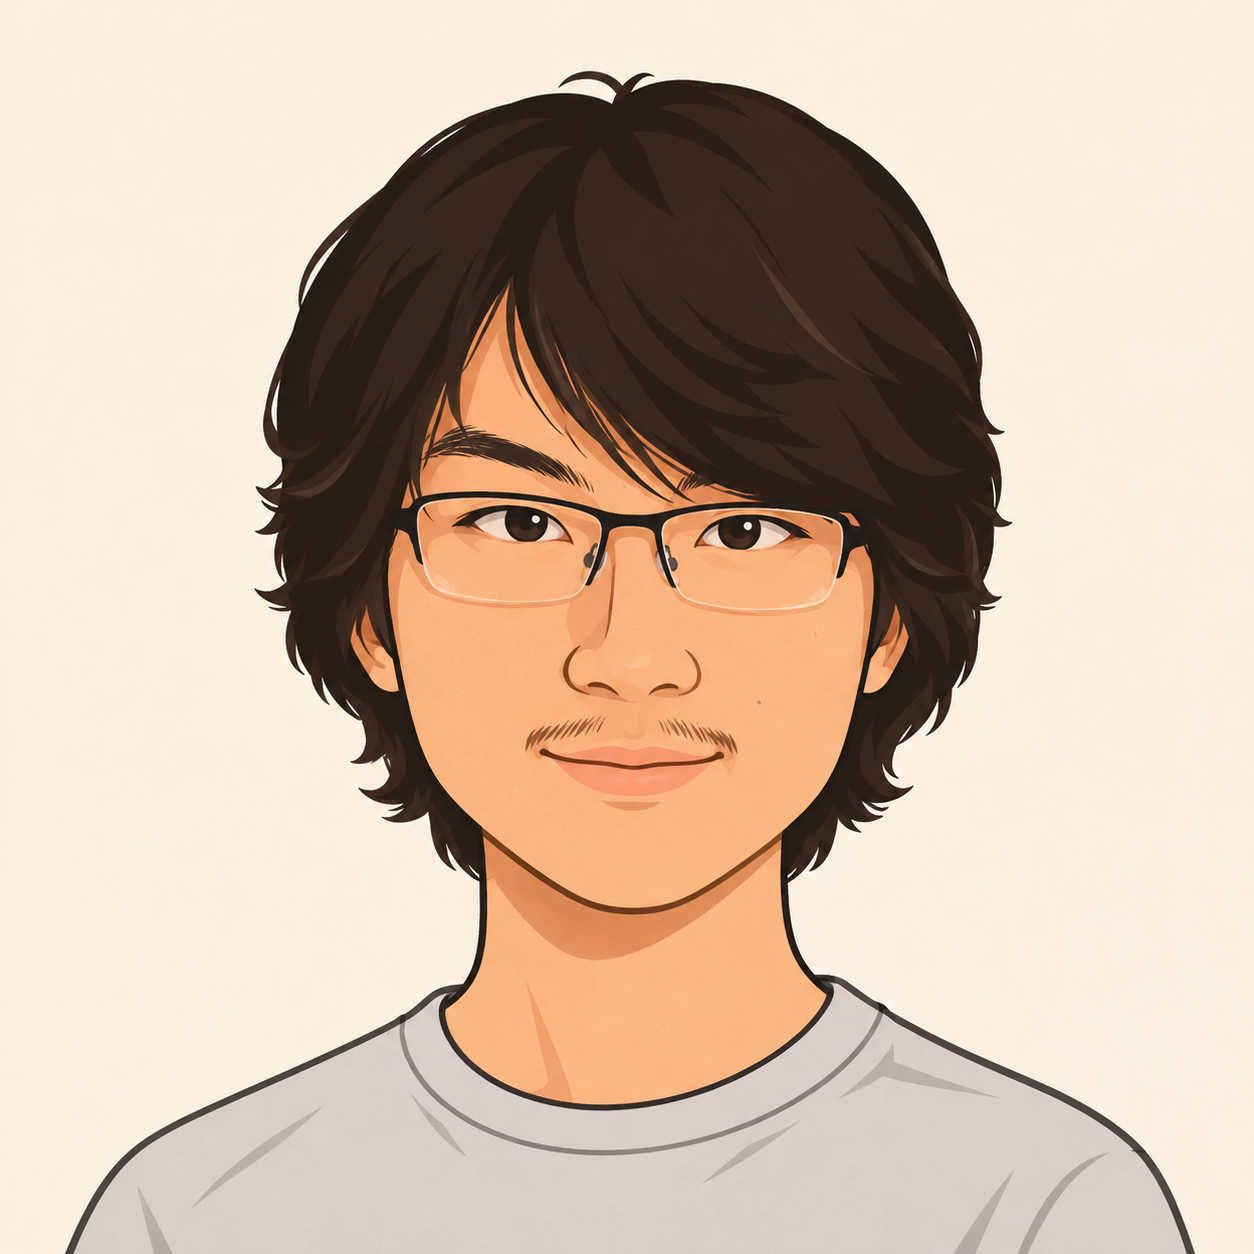
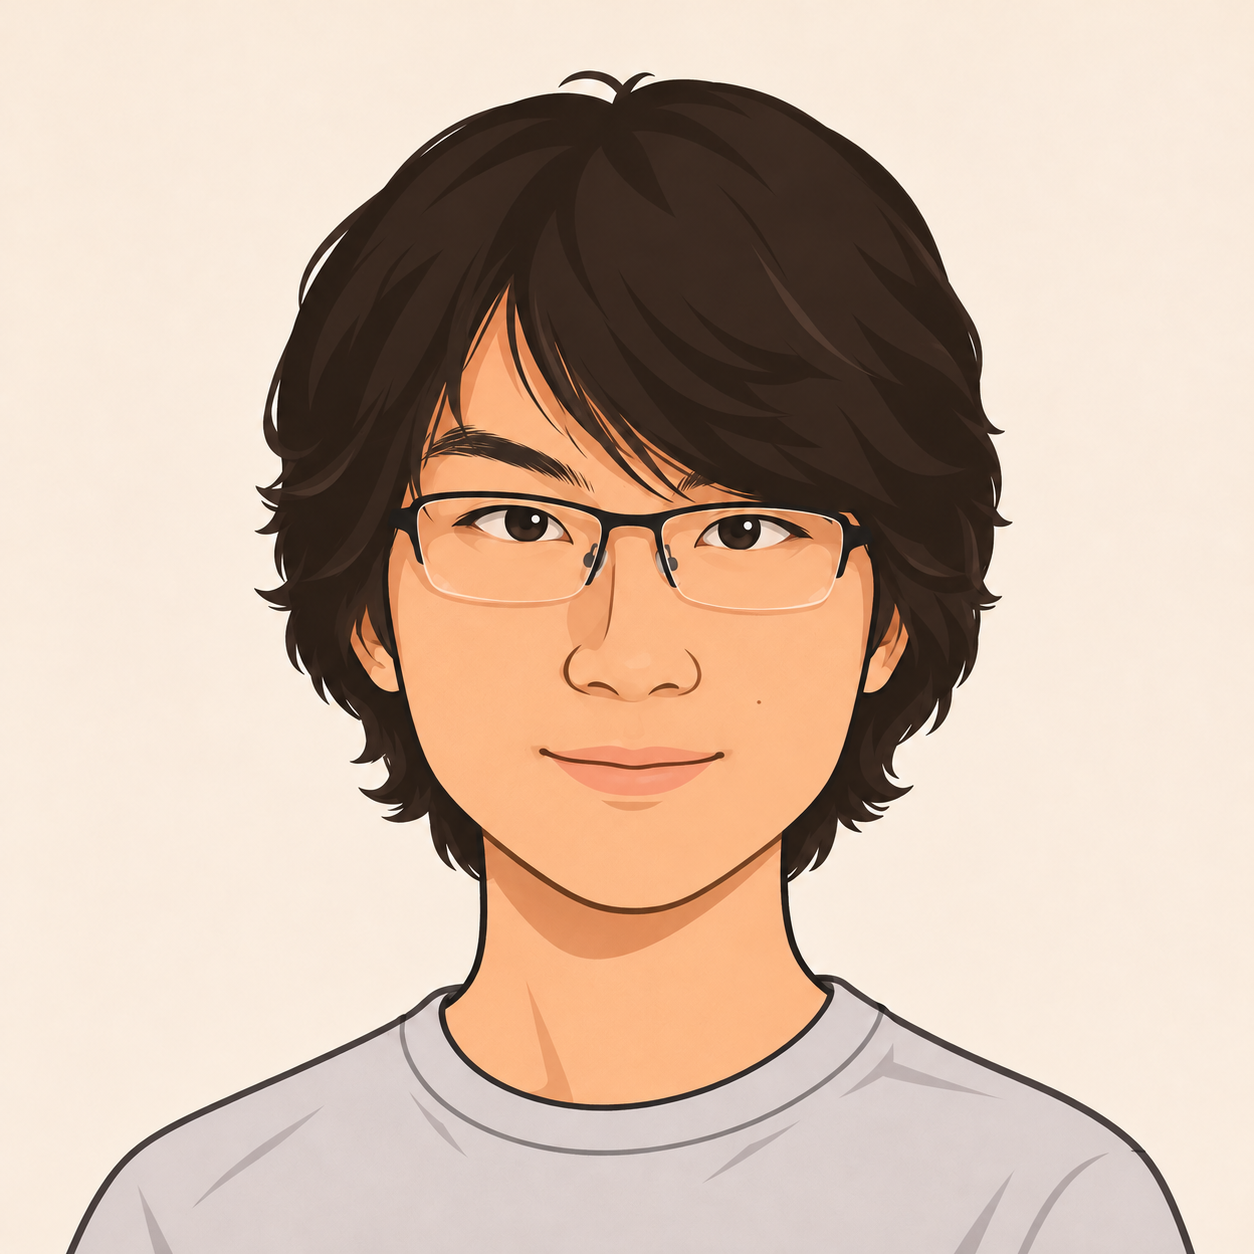
Use Libre Franklin and remove facial hair from cartoon portrait

diff --git a/index.html b/index.html
@@ -10,13 +10,13 @@
   <meta property="og:description" content="I am finishing a bachelor&#x27;s degree in Honours Math &amp; CS at McGill University and Mila – Québec AI Institute, where I do research on reinforcement learning and optimization theory.">
   <meta property="og:type" content="website">
   <meta property="og:url" content="https://al2wang.github.io/">
-  <meta property="og:image" content="https://al2wang.github.io/images/profile-placeholder.png">
+  <meta property="og:image" content="https://al2wang.github.io/images/profile-placeholder.png?v=clean-shaven">
   <meta property="og:image:alt" content="Cartoon placeholder portrait of Guangyuan Wang">
   <meta name="twitter:card" content="summary">
   <link rel="canonical" href="https://al2wang.github.io/">
   <link rel="icon" href="assets/favicon.svg" type="image/svg+xml">
-  <link rel="preload" href="assets/fonts/roboto-latin.woff2" as="font" type="font/woff2" crossorigin>
-  <link rel="stylesheet" href="styles.css">
+  <link rel="preload" href="assets/fonts/libre-franklin-latin.woff2" as="font" type="font/woff2" crossorigin>
+  <link rel="stylesheet" href="styles.css?v=libre-franklin">
   <script src="theme.js"></script>
   <script src="scripts.js" defer></script>
   <title>Guangyuan Wang</title>
@@ -43,7 +43,7 @@
       </header>
       <div class="biography">
         <figure class="profile">
-          <img src="images/profile-placeholder.png" width="1254" height="1254" alt="Cartoon placeholder portrait of Guangyuan Wang" fetchpriority="high">
+          <img src="images/profile-placeholder.png?v=clean-shaven" width="1254" height="1254" alt="Cartoon placeholder portrait of Guangyuan Wang" fetchpriority="high">
         </figure>
         <p>I am finishing a bachelor's degree in Honours Math &amp; CS at <a href="https://www.mcgill.ca/">McGill University</a> and <a href="https://mila.quebec/en">Mila – Québec AI Institute</a>, where I do research on reinforcement learning and optimization theory.</p>
       </div>

diff --git a/styles.css b/styles.css
@@ -1,10 +1,10 @@
 /* Academic layout adapted from al-folio; see assets/licenses/al-folio.txt. */
 @font-face {
-  font-family: Roboto;
+  font-family: "Libre Franklin";
   font-style: normal;
   font-weight: 300 700;
   font-display: swap;
-  src: url("assets/fonts/roboto-latin.woff2") format("woff2");
+  src: url("assets/fonts/libre-franklin-latin.woff2") format("woff2");
 }
 
 :root {
@@ -51,7 +51,7 @@ body {
   flex-direction: column;
   background: var(--background);
   color: var(--text);
-  font-family: Roboto, "Helvetica Neue", Arial, sans-serif;
+  font-family: "Libre Franklin", "Helvetica Neue", Arial, sans-serif;
   font-size: 16px;
   font-weight: 300;
   line-height: 1.6;

diff --git a/README.md b/README.md
@@ -48,9 +48,11 @@ Push to `main` to deploy through the existing GitHub Pages configuration.
 
 ## Credits
 
-The typography and portrait layout follow Jonas Hübotter's al-folio site.
+The layout follows Jonas Hübotter's al-folio site, with Libre Franklin typography
+as shown in the [Princeton Tiger theme font reference](https://sitebuilder.princeton.edu/themes-design/tiger-theme/fonts).
 The al-folio MIT license is retained in
-`assets/licenses/al-folio.txt`. Roboto is served locally; its SIL Open Font
+`assets/licenses/al-folio.txt`. Libre Franklin is served locally from
+`assets/fonts/libre-franklin-latin.woff2`; its SIL Open Font
 License is in `assets/fonts/OFL.txt`. The repository's existing MIT license is
 preserved in `LICENSE`.
 
@@ -63,3 +65,8 @@ is unchanged.
 Generation prompt:
 
 > Transform the reference portrait into a simple, friendly 2D cartoon avatar for an academic website. Preserve the person's recognizable dark side-swept hair, rectangular glasses, face shape, and light gray shirt. Use clean linework, soft flat colors, a subtle smile, and a plain warm off-white background. Center a head-and-shoulders portrait in a square crop. Remove earbud wires. No text, logos, props, or watermark.
+
+The displayed cartoon was then edited with the built-in imagegen tool to remove
+facial hair. Edit prompt:
+
+> Edit this cartoon portrait to remove the mustache completely. Make the entire upper lip and the skin around the mouth clean-shaven, with no mustache, beard, stubble, facial-hair strokes, or facial-hair shadow. Preserve the lips and smile. Change only the facial hair; keep the person's identity, face shape, eyes, eyebrows, glasses, hairstyle, gray shirt, pose, background, colors, illustration style, framing, and canvas dimensions unchanged.
